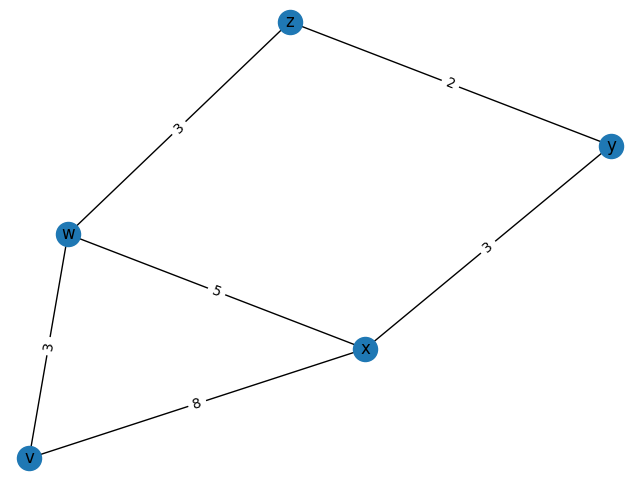
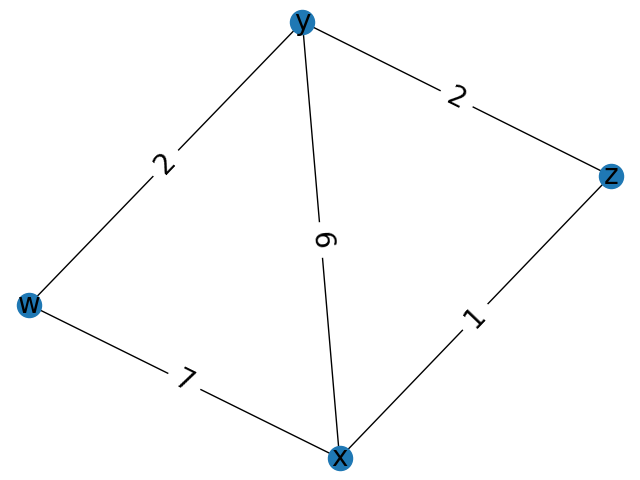
Update main.py: Increase font size

diff --git a/main.py b/main.py
@@ -90,9 +90,9 @@ def gui(network, nodes):
     for n in network:  # Add links (edge connections) between nodes to networkx
         G.add_edge(n[0], n[1])
     pos = nx.spring_layout(G)  # Specify random layout for use in labeling edge connections
-    nx.draw(G, pos, with_labels=True)  # Create the nodes and links
+    nx.draw(G, pos, with_labels=True, font_size=20)  # Create the nodes and links
     for n in network:  # Add numerical cost as a label on each path
-        nx.draw_networkx_edge_labels(G, pos, edge_labels={(n[0], n[1]): str(n[2])})
+        nx.draw_networkx_edge_labels(G, pos, edge_labels={(n[0], n[1]): str(n[2])}, font_size=20)
     plt.savefig("path.png")  # Save file as a png to display in webpage
     plt.show()  # Show the file
 
